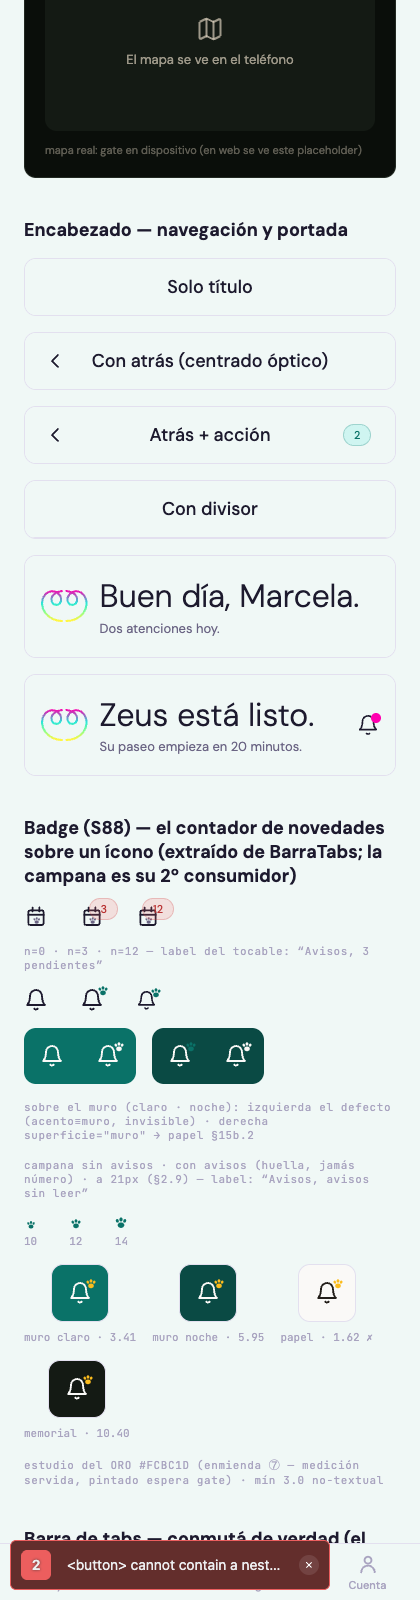
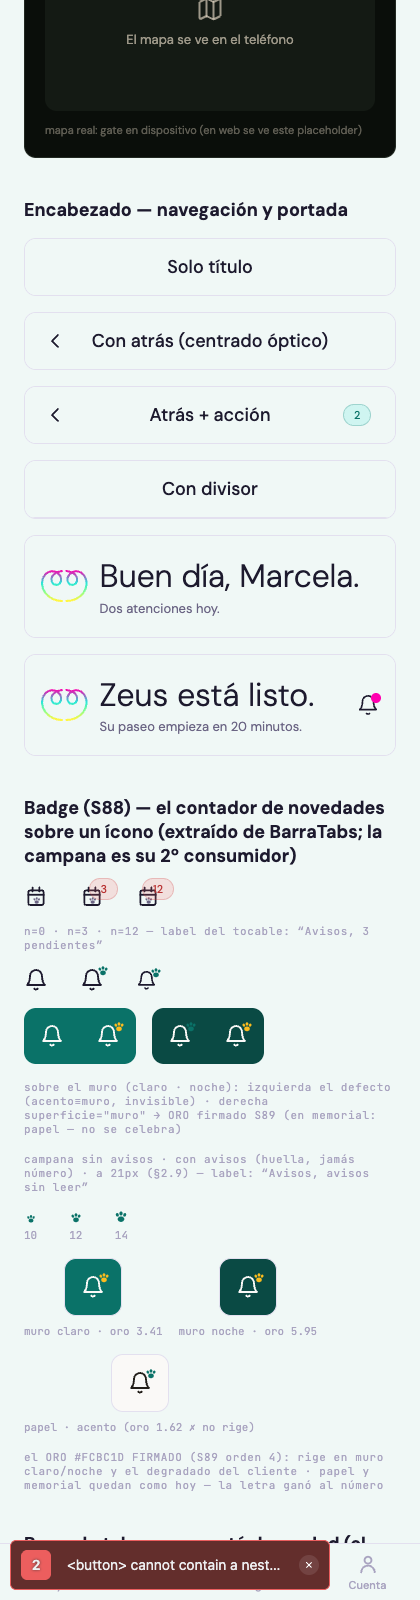
feat(S89-B orden 4): EL ORO FIRMADO — Badge forma=huella pinta ctaOro sobre el muro (claro 3.41 · noche 5.95 · degradado del cliente), papel y memorial quedan como hoy (la letra ganó al número); pares oro/MURO al gate (fill mín 3, cero excepciones nuevas); galería con la pieza real y capturas re-tom

diff --git a/packages/ui/src/gallery/TokenGallery.tsx b/packages/ui/src/gallery/TokenGallery.tsx
@@ -1366,7 +1366,7 @@ function EjemploBadge() {
         ))}
       </View>
       <Text style={{ fontFamily: mono.regular, fontSize: typography.size.xs, letterSpacing: typography.tracking.mono, color: theme.text.tertiary }}>
-        sobre el muro (claro · noche): izquierda el defecto (acento≡muro, invisible) · derecha superficie=&quot;muro&quot; → papel §15b.2
+        sobre el muro (claro · noche): izquierda el defecto (acento≡muro, invisible) · derecha superficie=&quot;muro&quot; → ORO firmado S89 (en memorial: papel — no se celebra)
       </Text>
       <Text style={{ fontFamily: mono.regular, fontSize: typography.size.xs, letterSpacing: typography.tracking.mono, color: theme.text.tertiary }}>
         campana sin avisos · con avisos (huella, jamás número) · a 21px (§2.9) — label: “{etiquetaBadge('Avisos', 3, 'huella')}”
@@ -1384,37 +1384,32 @@ function EjemploBadge() {
         ))}
       </View>
 
-      {/* ── EL ESTUDIO DEL ORO (S89-B, enmienda ⑦ — MEDICIÓN SERVIDA; el
-          PINTADO espera su gate, esto es galería/instrumento y no toca
-          producto): la huella a `palette.ctaOro` sobre las cuatro
-          superficies donde vive. Ratios de `scripts/medir-oro-campana.mjs`
-          (mín 3.0 no-textual): muro claro 3.41 · muro noche 5.95 ·
-          papel 1.62 (NO PASA — el rojo se muestra A PROPÓSITO, mismo
-          precedente que el par del defecto de arriba) · memorial 10.40.
-          El depósito con las declaraciones de ley:
-          docs/relevamientos/2026-08-06-s89b-MEDICION-oro-campana.md */}
+      {/* ── ⚖ EL ORO, FIRMADO (S89 orden 4, sobre la medición s89b —
+          firma del founder): sobre el MURO la huella es ORO `ctaOro`
+          (claro 3.41 · noche 5.95 · degradado del cliente peor punto
+          3.33); sobre PAPEL (1.62, NO pasa) y en MEMORIAL (no se
+          celebra) queda como antes. Las muestras de abajo son LA PIEZA
+          REAL — lo que se ve acá es lo que la pantalla pinta; con el
+          toggle en Memorial, el muro muestra PAPEL por construcción.
+          Depósito: docs/relevamientos/2026-08-06-s89b-MEDICION-oro-campana.md */}
       <View style={{ flexDirection: 'row', gap: spacing[4], flexWrap: 'wrap' }}>
         {([
-          ['muro claro · 3.41', palette.tealDark, palette.light0],
-          ['muro noche · 5.95', palette.tealDarkNoche, palette.light0],
-          ['papel · 1.62 ✗', palette.light0, palette.tinta],
-          ['memorial · 10.40', palette.memorialDark1, palette.light0],
-        ] as const).map(([rotulo, fondo, trazo]) => (
+          ['muro claro · oro 3.41', palette.tealDark, 'muro'],
+          ['muro noche · oro 5.95', palette.tealDarkNoche, 'muro'],
+          ['papel · acento (oro 1.62 ✗ no rige)', palette.light0, 'clara'],
+        ] as const).map(([rotulo, fondo, superficie]) => (
           <View key={rotulo} style={{ alignItems: 'center', gap: spacing[2] }}>
             <View style={{ backgroundColor: fondo, borderRadius: radius.md, padding: spacing[4], borderWidth: 1, borderColor: theme.bg.border }}>
-              <View>
-                <Icono nombre="campana" tinta={trazo} />
-                <View style={{ position: 'absolute', top: -3, right: -5 }}>
-                  <Svg width={12} height={12} viewBox="0 0 24 24"><Huella color={palette.ctaOro} /></Svg>
-                </View>
-              </View>
+              <Badge n={3} forma="huella" superficie={superficie}>
+                <Icono nombre="campana" tinta={superficie === 'muro' ? palette.light0 : palette.tinta} />
+              </Badge>
             </View>
             <Text style={{ fontFamily: mono.regular, fontSize: typography.size.xs, color: theme.text.tertiary }}>{rotulo}</Text>
           </View>
         ))}
       </View>
       <Text style={{ fontFamily: mono.regular, fontSize: typography.size.xs, letterSpacing: typography.tracking.mono, color: theme.text.tertiary }}>
-        estudio del ORO #FCBC1D (enmienda ⑦ — medición servida, pintado espera gate) · mín 3.0 no-textual
+        el ORO #FCBC1D FIRMADO (S89 orden 4): rige en muro claro/noche y el degradado del cliente · papel y memorial quedan como hoy — la letra ganó al número
       </Text>
     </View>
   )

diff --git a/packages/ui/src/components/Badge.tsx b/packages/ui/src/components/Badge.tsx
@@ -68,20 +68,25 @@ export interface BadgeProps {
    *    La ley del único relleno, aplicada AL PAR: el glifo que la porta
    *    va en TRAZO (la campana) y la huella va RELLENA. */
   forma?: 'contador' | 'huella'
-  /** 🔴 LA REGLA DE SUPERFICIE (S88, cura pre-gate — censo de C con el
+  /** LA REGLA DE SUPERFICIE (S88, cura pre-gate — censo de C con el
    *  dato): `accent.active` del prestador en claro es tealDark #0A7268,
    *  EL MISMO HEX del muro del techo donde la lámina manda la campana —
    *  la huella podía ser invisible exactamente en su lugar firmado.
-   *  Sobre el muro la pieza INVIERTE A PAPEL (`palette.light0`) — el
-   *  precedente exacto de `Insignia superficie="muro"` (S85) y de
-   *  `Boton` (S84-B19), con el par FIRMADO por §15b.2: papel/tealDark
-   *  5.51 en claro · papel/tealDarkNoche en oscuro — los DOS ya viven
-   *  en `verify:contrast` (cero pares nuevos).
-   *  **Y la letra del founder queda ENTERA, no rota:** «color de
-   *  acento» sobre el muro RESUELVE a papel por la regla medida de S61
-   *  (§15b.2: *sobre el muro el acento funcional es PAPEL — teal puro
-   *  3.77 prohibido*); jamás rojo — papel no lo es; el tamaño no se
-   *  toca. Mismo vocabulario que Insignia: 'clara' (default) | 'muro'.
+   *  Mismo vocabulario que Insignia: 'clara' (default) | 'muro'.
+   *
+   *  ⚖ EL ORO, FIRMADO (S89, orden 4 — sobre la medición
+   *  `2026-08-06-s89b-MEDICION-oro-campana.md`): sobre el MURO la
+   *  huella pinta ORO `palette.ctaOro` #FCBC1D — rige en muro claro
+   *  (3.41, con la excepción §15b.2 que A escribe con el precedente
+   *  magenta S83), muro noche (5.95) y el degradado del cliente (peor
+   *  punto 3.33; el montaje del cliente pasa `superficie="muro"`).
+   *  **Sobre papel y en MEMORIAL la huella queda como antes — la letra
+   *  ganó al número:** papel 1.62 no pasa (en 'clara' sigue el acento
+   *  por casa), y memorial NO SE CELEBRA — con `superficie="muro"` en
+   *  memorial la pieza conserva papel (lo de siempre), jamás oro. Los
+   *  pares oro/muro viven en `verify:diseno` (clase fill, mín 3).
+   *  Las tres condiciones firmadas siguen intactas: jamás un número ·
+   *  jamás rojo de alarma · jamás anima.
    *  Alcance declarado: rige la forma `huella` (la campana del muro).
    *  El contador sobre el muro NO tiene consumidor hoy — la pill no
    *  cambia con esta prop, y si un día vive ahí, gana su regla con su
@@ -94,10 +99,16 @@ export interface BadgeProps {
 export function Badge({ n, forma = 'contador', superficie = 'clara', children }: BadgeProps) {
   const { theme } = useTheme()
   const accentActive = 'active' in theme.accent ? theme.accent.active : theme.accent.primary
-  // Sobre el muro, papel PLENO (la inversión §15b.2) — sobre lo claro,
-  // el acento por casa. El muro no sale del tema (vive en la app), pero
-  // su respuesta sí es token: light0, el mismo de Insignia.
-  const colorHuella = superficie === 'muro' ? palette.light0 : accentActive
+  // Sobre el muro, ORO (firma S89 orden 4; el hex sale de palette —
+  // fuente única, jamás inline) — SALVO memorial, que no se celebra:
+  // ahí conserva papel, lo de siempre. Sobre lo claro, el acento por
+  // casa (papel 1.62 no pasa el mínimo — la medición mandó).
+  const colorHuella =
+    superficie === 'muro'
+      ? theme.mode === 'memorial'
+        ? palette.light0
+        : palette.ctaOro
+      : accentActive
   return (
     <View>
       {children}

diff --git a/apps/prestador/src/components/techo-oficio.tsx b/apps/prestador/src/components/techo-oficio.tsx
@@ -434,13 +434,15 @@ export function TechoOficio({
                 la huella era INVISIBLE exactamente en su lugar firmado, y
                 el olvido no rompía nada ni se veía (la misma clase que la
                 Insignia de cohorte documenta arriba: la regla del muro
-                vive con el muro). Con la prop, papel §15b.2 (5.51 / 9.61).
+                vive con el muro). Con la prop, la pieza resuelve el color
+                firmado del muro (S89 orden 4: ORO ctaOro — claro 3.41 ·
+                noche 5.95; la pieza decide, esta pantalla no).
                 Medición y pedido: 2026-08-06-s89b-PAQUETE-gate-campana.md.
                 R33 del lint fija la regla: todo `forma="huella"` en apps
                 DECLARA su superficie — el default silencioso murió. */}
             <Badge n={avisosSinLeer === true ? 1 : 0} forma="huella" superficie="muro">
               {/* Campana EN TRAZO (ley del único relleno: el relleno es de
-                  la huella del Badge); trazo Y huella en papel sobre el muro. */}
+                  la huella del Badge); el trazo en papel sobre el muro. */}
               <Icono nombre="campana" tamano={24} tinta={palette.light0} />
             </Badge>
           </Pressable>

diff --git a/scripts/verify-diseno-pares.ts b/scripts/verify-diseno-pares.ts
@@ -191,6 +191,14 @@ for (const [tema, t] of Object.entries(temas) as ['light' | 'dark' | 'lightOfici
     pares.push({ tema, clase: minimo >= 4.5 ? 'texto' : 'fill', nombre: `${nombre}/MURO`, ratio: contraste(fg, muro, muro), minimo })
   // El par FIRMADO de §15b.2: sobre el muro el acento funcional es PAPEL.
   sobreMuro('papel pleno (light0)', palette.light0, 4.5)
+  // ⚖ EL ORO DE LA HUELLA (S89, orden 4 — firma del founder sobre la
+  // medición s89b): `Badge forma="huella"` pinta `ctaOro` sobre el muro
+  // (claro 3.41 · noche 5.95, gráfica funcional mín 3 — la excepción a
+  // §15b.2 la escribe A con el precedente magenta S83). El par entra al
+  // gate para que si el oro o el muro se mueven, el 3.41 no muera en
+  // silencio. Memorial no vive en este corpus, y ahí la pieza tampoco
+  // pinta oro (no se celebra; conserva papel) — coherente por diseño.
+  sobreMuro('huella-novedad oro (ctaOro, firma S89)', palette.ctaOro, 3)
   // Los que NO deben usarse ahí — entran para que su número EXISTA:
   // LOS VEDADOS ENTRAN COMO INFORMATIVOS (mínimo 0), y la distinción es
   // la que vuelve honesta a la regla: NO son regresiones que alguien deba

diff --git a/packages/ui/src/tokens/palette.ts b/packages/ui/src/tokens/palette.ts
@@ -102,7 +102,7 @@ export const palette = {
    *  enmienda** — un color para los dos temas lo volvió innecesario.
    *  Reversa: `accent.cta` a `palette.textLight0` (claro) y
    *  `palette.textDark0` (oscuro), con sus ctaTexto. */
-  ctaOro:         '#FCBC1D',  // rgb(252,188,29) — H43 S97% L55%
+  ctaOro:         '#FCBC1D',  // rgb(252,188,29) — H43 S97% L55% · 2º consumidor S89 (firma orden 4): la huella-novedad del Badge SOBRE EL MURO (claro 3.41 · noche 5.95, pares en el gate; sobre papel 1.62 NO rige — ahí la huella sigue en acento por casa, y memorial no se celebra)
   /** S82-B r10 — CURA COORDINADA DEL TAPIZ: era #925F0C y vivía en
    *  **4.50 EXACTO** sobre su tinte SIN tapiz (el más frágil de los tres
    *  status — cualquier tinte lo tumbaba: 4.35 al 3%). Un paso más:

diff --git a/docs/relevamientos/2026-08-06-s89b-PAQUETE-gate-campana.md b/docs/relevamientos/2026-08-06-s89b-PAQUETE-gate-campana.md
@@ -132,3 +132,45 @@ palabra en la misma línea — trivial para A.
   con lápida.
 - Verificación (cero dedos, regla 87): tsc ×3 verde · `verify:diseno` VERDE ·
   `verdicto.mjs` TODO VERDE.
+
+---
+
+# ⚖ VERSIÓN FINAL (S89, orden 4) — EL ORO, FIRMADO POR EL FOUNDER
+
+**La firma, sobre la medición de este paquete:** el oro **RIGE** en **muro
+claro** (3.41 — con la excepción a §15b.2 que **A escribe** con el precedente
+magenta S83), **muro noche** (5.95) y **el degradado del cliente** (peor
+punto 3.33). Sobre **papel** (1.62, no pasa) y en **memorial** (no se celebra)
+**la huella queda como hoy** — *la letra ganó al número*.
+
+**El pintado, ejecutado por riel (no por caso):** `Badge forma="huella"` con
+`superficie="muro"` pinta `palette.ctaOro` (fuente única de hex, jamás
+inline) — salvo memorial, donde conserva papel; `superficie="clara"` conserva
+el acento por casa. R33 ya obliga la superficie explícita en apps, así que
+ningún montaje decide su color. Las tres condiciones firmadas viajan
+intactas: **jamás un número · jamás rojo de alarma · jamás anima.**
+
+**El instrumento se reforzó, no se ablandó:** los pares
+`huella-novedad oro (ctaOro)/MURO` entraron a `verify-diseno-pares` (clase
+fill, mín 3) en los cuatro temas del corpus — 3.41 claro/lightOficio · 5.95
+dark/darkOficio, **todos en verde sin excepción nueva**: si el oro o el muro
+se mueven, el número no muere en silencio. WCAG 178/0 intacto ·
+`verdicto.mjs` TODO VERDE.
+
+**Capturas re-tomadas con el oro pintado** (mismas rutas,
+`scripts/capturas/s89-b-gate-campana/seccion-campana-{claro,oscuro,memorial}.png`
+— el diff de git conserva el antes).
+
+## Lo que mira el ojo del founder en el gate único del bundle
+
+1. **El oro en las superficies firmadas** — la campana del techo del
+   prestador (claro y oscuro) y la del Hogar del cliente sobre el degradado:
+   la huella es ORO y se lee como novedad. En la galería, el par del defecto
+   y la fila del oro lo muestran lado a lado; en memorial, el toggle muestra
+   papel — no se celebra, por construcción.
+2. **El estudio 10/12/14** — el cierre formal del «tamaño mínimo legible» de
+   la lámina: 12 es la elegida de la pieza; el estudio del oro está a un
+   renglón para mirar el tamaño EN oro.
+3. **La huella del techo ya visible** — la cura de la orden 2: antes
+   invisible en claro (1.00), ahora oro 3.41; R33 impide que el olvido
+   vuelva callado.

diff --git a/docs/relevamientos/2026-08-06-s89b-MEDICION-oro-campana.md b/docs/relevamientos/2026-08-06-s89b-MEDICION-oro-campana.md
@@ -1,5 +1,11 @@
 # S89-B · LA MEDICIÓN DEL ORO — enmienda ⑦ (la huella de la campana a #FCBC1D)
 
+> ⚖ **FIRMADA (S89, orden 4 del founder) — sobre esta medición:** el oro
+> RIGE en muro claro (con la excepción §15b.2 que escribe A, precedente
+> magenta S83), muro noche y el degradado del cliente; sobre papel y en
+> memorial la huella queda como hoy — *la letra ganó al número*. El pintado
+> y el paquete final: `2026-08-06-s89b-PAQUETE-gate-campana.md`.
+
 > **Orden de apertura S89-B ①.** La enmienda ⑦ (firmada founder) manda la
 > huella de la campana a ORO `#FCBC1D`. Esto es la MEDICIÓN previa al pintado
 > — **el pintado espera su gate; este depósito es la medición**. Las tres
